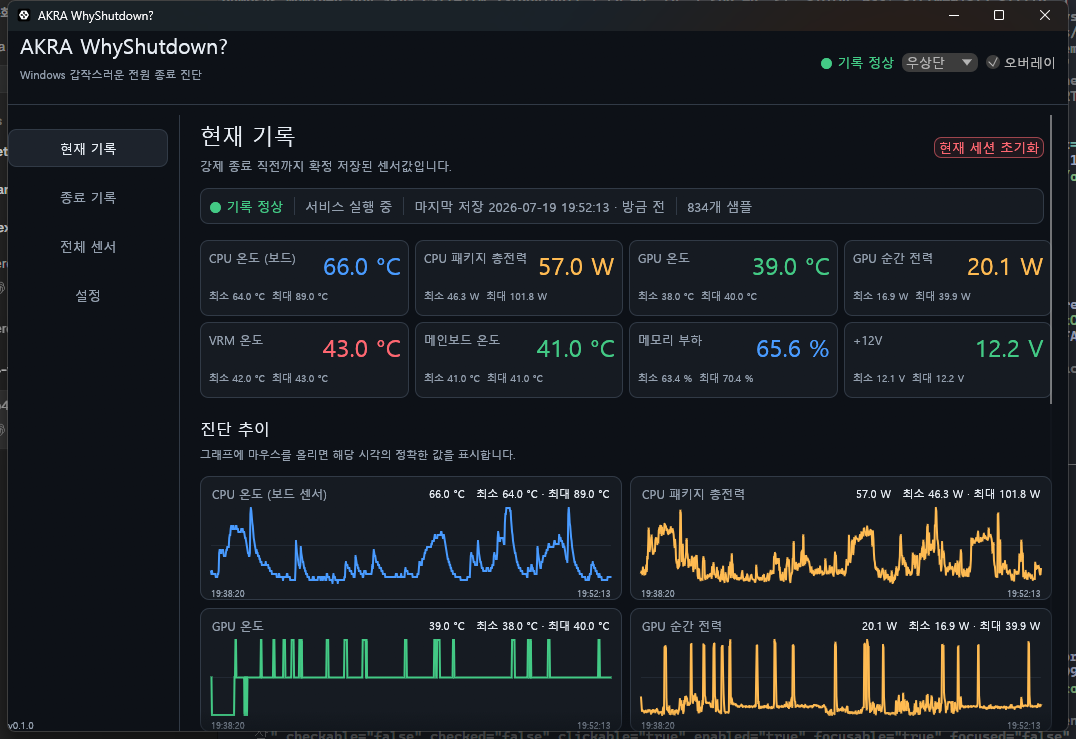
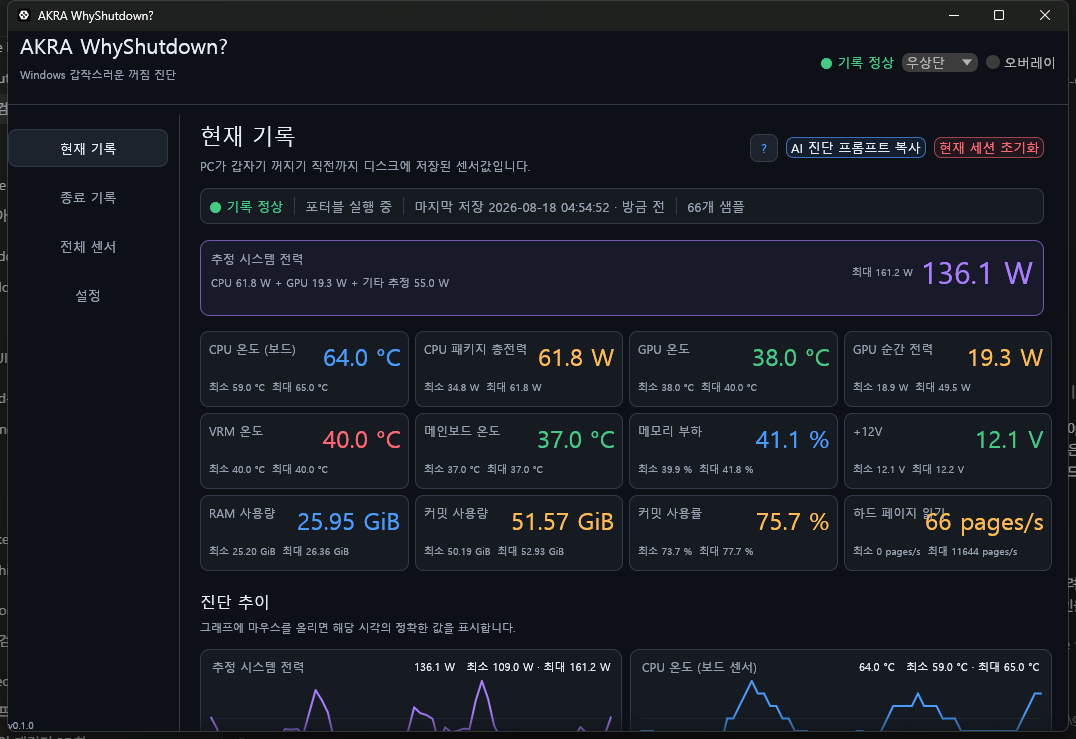
Document tray mode and memory diagnostics

diff --git a/site/index.html b/site/index.html
@@ -26,14 +26,14 @@
       <div class="hero-copy">
         <p class="product-name">AKRA WhyShutdown? for Windows</p>
         <h1 id="hero-title">꺼지기 직전의 상태를<br>다음 부팅까지 남깁니다.</h1>
-        <p class="hero-description">CPU·GPU·메인보드 센서와 Windows 이벤트를 로컬에 기록합니다. 갑작스러운 종료 뒤에도 마지막 구간을 한 화면에서 확인할 수 있습니다.</p>
+        <p class="hero-description">CPU·GPU·메인보드 센서, RAM·커밋 압박과 Windows 이벤트를 로컬에 기록합니다. 갑작스러운 종료 뒤에도 마지막 구간을 한 화면에서 확인할 수 있습니다.</p>
         <div class="download-actions">
           <a class="button button-primary" id="portable-download" href="https://github.com/akra-devs/akra-shutdown-checker-pages/releases/latest/download/AKRA-WhyShutdown-portable-windows-x64.zip">포터블 다운로드</a>
           <a class="button button-secondary" id="installed-download" href="https://github.com/akra-devs/akra-shutdown-checker-pages/releases/latest/download/AKRA-WhyShutdown-windows-x64.zip">설치형 다운로드</a>
         </div>
         <p class="release-line" aria-live="polite"><span id="release-version">최신 빌드</span><span aria-hidden="true">/</span><span>Windows 10·11 x64</span><span aria-hidden="true">/</span><span id="portable-size">ZIP</span></p>
       </div>
-      <figure class="product-shot"><img src="./assets/whyshutdown.png" alt="현재 기록 상태와 CPU, GPU, 메인보드 센서 그래프를 표시하는 AKRA WhyShutdown? 화면" width="1068" height="739"></figure>
+      <figure class="product-shot"><img src="./assets/whyshutdown.png" alt="현재 기록 상태와 CPU, GPU, 메인보드 및 메모리 지표 그래프를 표시하는 AKRA WhyShutdown? 화면" width="1076" height="739"></figure>
     </section>
 
     <section class="facts" aria-label="제품 특성">
@@ -43,7 +43,7 @@
     <section class="section workflow" aria-labelledby="workflow-title">
       <div class="section-heading"><p class="section-index">01 / RECORD</p><h2 id="workflow-title">원인을 추측하기 전에<br>같은 시간대의 기록을 모읍니다.</h2></div>
       <ol class="workflow-list">
-        <li><span>01</span><div><h3>센서 기록</h3><p>지원되는 CPU·GPU 전력과 온도, VRM·보드 전압, 메모리 상태를 기록합니다.</p></div></li>
+        <li><span>01</span><div><h3>센서 기록</h3><p>지원되는 CPU·GPU 전력과 온도, VRM·보드 전압, RAM·커밋 사용률과 하드 페이지 읽기를 기록합니다.</p></div></li>
         <li><span>02</span><div><h3>마지막 구간 보존</h3><p>기록이 정상 종료되지 않은 세션과 그 직전 구간을 다음 실행까지 보호합니다.</p></div></li>
         <li><span>03</span><div><h3>재부팅 후 점검</h3><p>센서 변화와 Windows 이벤트를 함께 보고 AI 진단용 요청문을 복사할 수 있습니다.</p></div></li>
       </ol>
@@ -54,7 +54,7 @@
       <div class="edition-list">
         <article>
           <div><p class="edition-label">Portable</p><h3>설치 없이 먼저 확인</h3></div>
-          <p>ZIP을 쓰기 가능한 폴더에 풀고 <code>powertrace-ui.exe</code>를 실행합니다. 기록과 설정은 포터블 폴더 안에 남으며, 창을 닫으면 기록도 안전하게 끝납니다.</p>
+          <p>ZIP을 쓰기 가능한 폴더에 풀고 <code>powertrace-ui.exe</code>를 실행합니다. 기록과 설정은 포터블 폴더 안에 남습니다. 닫기 버튼에서 숨겨진 아이콘으로 이동하면 계속 기록하고, 종료를 선택하면 세션을 안전하게 마칩니다.</p>
           <a id="portable-guide-download" href="https://github.com/akra-devs/akra-shutdown-checker-pages/releases/latest/download/AKRA-WhyShutdown-portable-windows-x64.zip">포터블 ZIP 받기 <span id="portable-detail-size"></span></a>
         </article>
         <article>
@@ -66,18 +66,18 @@
     </section>
 
     <section class="section usage" id="usage" aria-labelledby="usage-title">
-      <div class="section-heading"><p class="section-index">03 / USE</p><h2 id="usage-title">기록 상태를 확인하고<br>갑작스러운 종료에 대비하세요.</h2><p>포터블은 앱 창이 열린 동안, 설치형은 Windows 서비스가 실행되는 동안 기록합니다.</p></div>
+      <div class="section-heading"><p class="section-index">03 / USE</p><h2 id="usage-title">기록 상태를 확인하고<br>갑작스러운 종료에 대비하세요.</h2><p>포터블은 앱을 종료하기 전까지 숨겨진 아이콘에서도 기록하고, 설치형은 Windows 서비스가 실행되는 동안 기록합니다.</p></div>
       <ol class="usage-steps">
         <li><span>01</span><div><h3>ZIP을 내려받아 압축을 풉니다</h3><p>포터블은 쓰기 가능한 폴더에 풀어야 합니다. 설치형은 압축을 푼 폴더를 그대로 유지한 상태에서 설치를 진행하세요.</p></div></li>
         <li><span>02</span><div><h3>앱을 실행합니다</h3><p>포터블은 <code>powertrace-ui.exe</code>를 실행합니다. 설치형은 관리자 PowerShell에서 <code>.\AKRA-WhyShutdown-windows-x64\scripts\install.ps1</code>을 실행한 뒤 시작 메뉴에서 앱을 엽니다.</p></div></li>
-        <li><span>03</span><div><h3>상단의 ‘기록 정상’을 확인합니다</h3><p>센서값과 그래프가 갱신되면 준비가 끝난 것입니다. 포터블은 기록이 필요한 동안 앱 창을 열어 두세요.</p></div></li>
+        <li><span>03</span><div><h3>상단의 ‘기록 정상’을 확인합니다</h3><p>센서값과 그래프가 갱신되면 준비가 끝난 것입니다. 창을 닫을 때 ‘숨겨진 아이콘으로 이동’을 선택하면 화면을 치운 뒤에도 기록이 계속됩니다.</p></div></li>
         <li><span>04</span><div><h3>재부팅 후 ‘종료 기록’을 엽니다</h3><p>확인할 세션을 선택해 종료 직전의 센서 변화와 Windows 이벤트를 봅니다. 필요하면 ‘AI 진단 프롬프트 복사’를 누르고 사용하는 AI 서비스에 직접 붙여넣으세요.</p></div></li>
       </ol>
     </section>
 
     <section class="section details" aria-labelledby="details-title">
-      <div class="section-heading"><p class="section-index">04 / REVIEW</p><h2 id="details-title">현재값뿐 아니라<br>변화의 흐름을 봅니다.</h2><p>센서별 현재값·최솟값·최댓값과 시간 그래프를 같은 화면에 배치했습니다. AI 기능은 자동 전송이 아니라 진단 요청문을 클립보드에 복사하는 방식입니다.</p></div>
-      <figure class="detail-shot"><img src="./assets/whyshutdown.png" alt="종료 직전 센서값과 시간 그래프를 함께 보여주는 화면" width="1068" height="739" loading="lazy" decoding="async"></figure>
+      <div class="section-heading"><p class="section-index">04 / REVIEW</p><h2 id="details-title">현재값뿐 아니라<br>변화의 흐름을 봅니다.</h2><p>센서별 현재값·최솟값·최댓값과 시간 그래프를 같은 화면에 배치했습니다. 오버레이에서도 RAM, 커밋 사용률과 하드 페이지 읽기를 확인할 수 있습니다. AI 기능은 자동 전송이 아니라 진단 요청문을 클립보드에 복사하는 방식입니다.</p></div>
+      <figure class="detail-shot"><img src="./assets/whyshutdown.png" alt="종료 직전 센서값, 메모리 압박 지표와 시간 그래프를 함께 보여주는 화면" width="1076" height="739" loading="lazy" decoding="async"></figure>
     </section>
 
     <section class="release-section" aria-labelledby="release-title">
